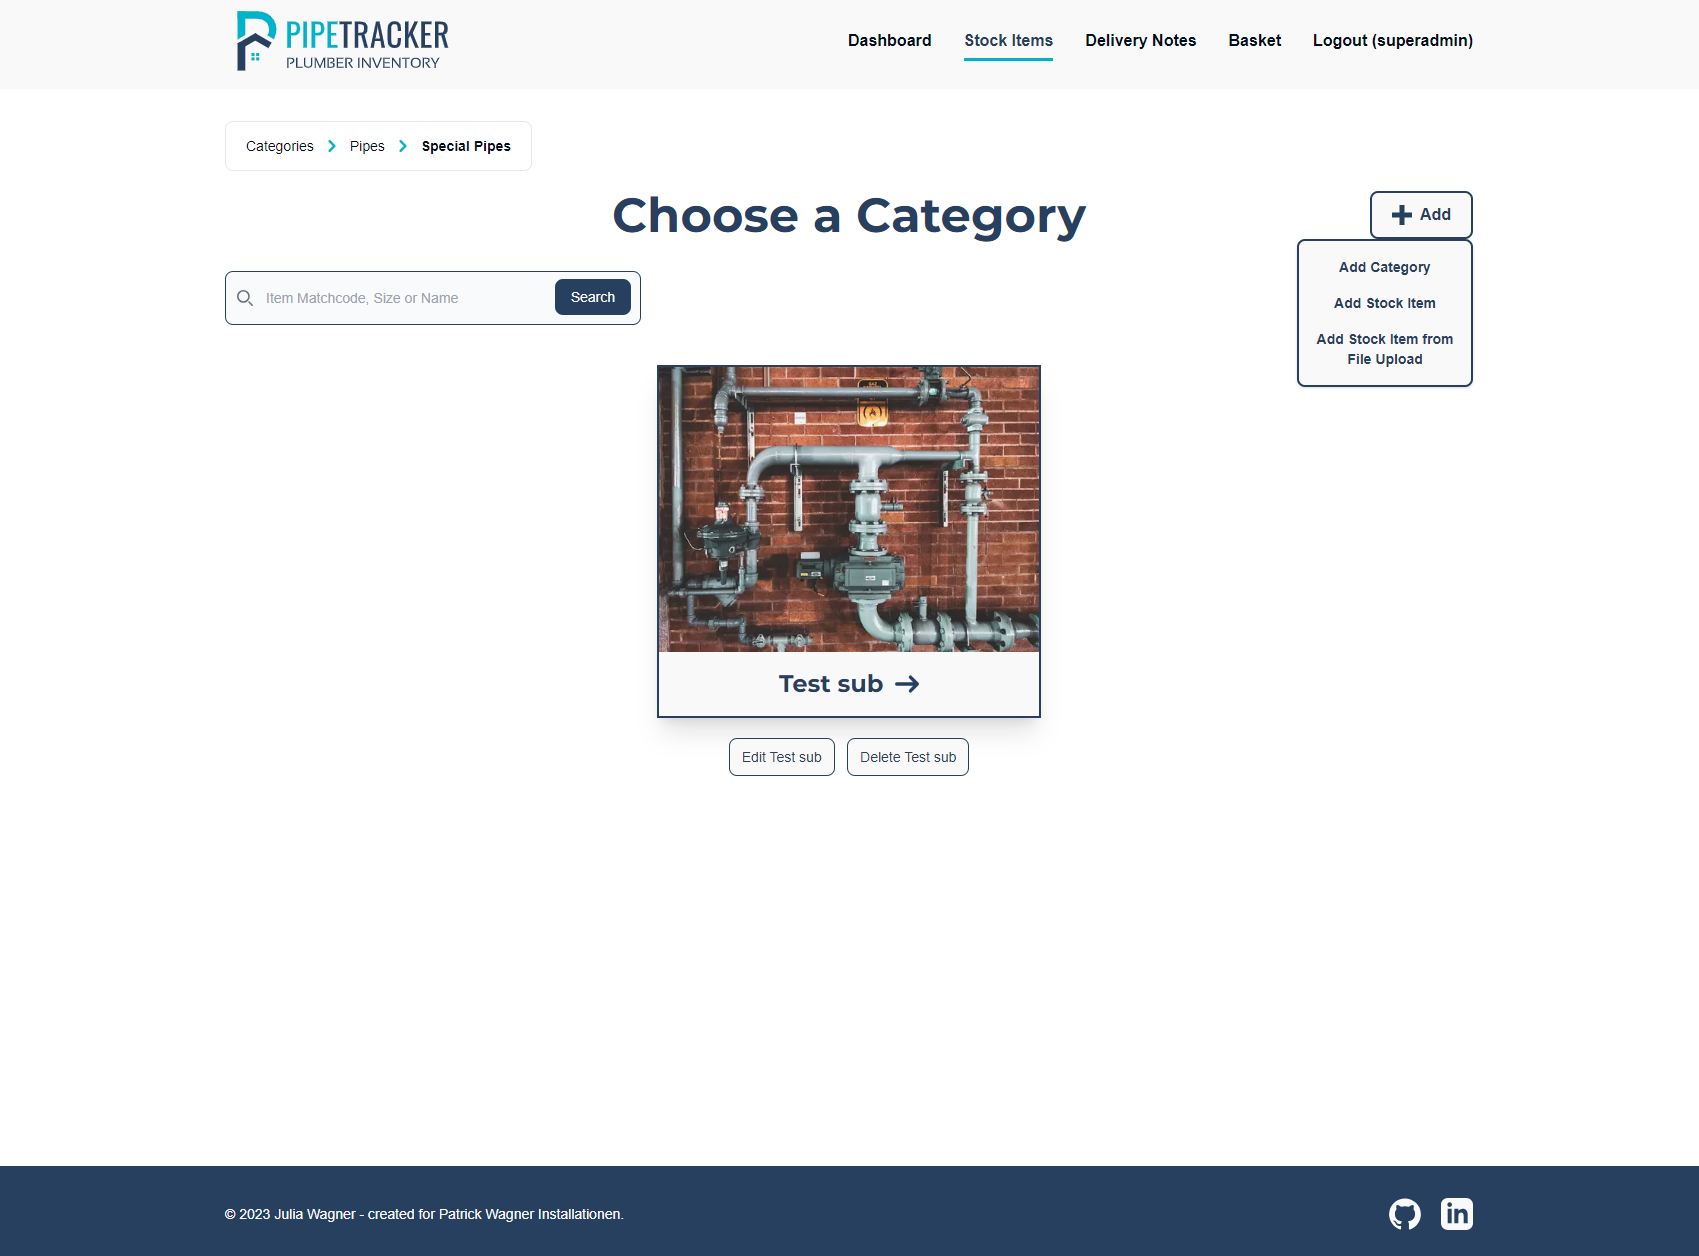
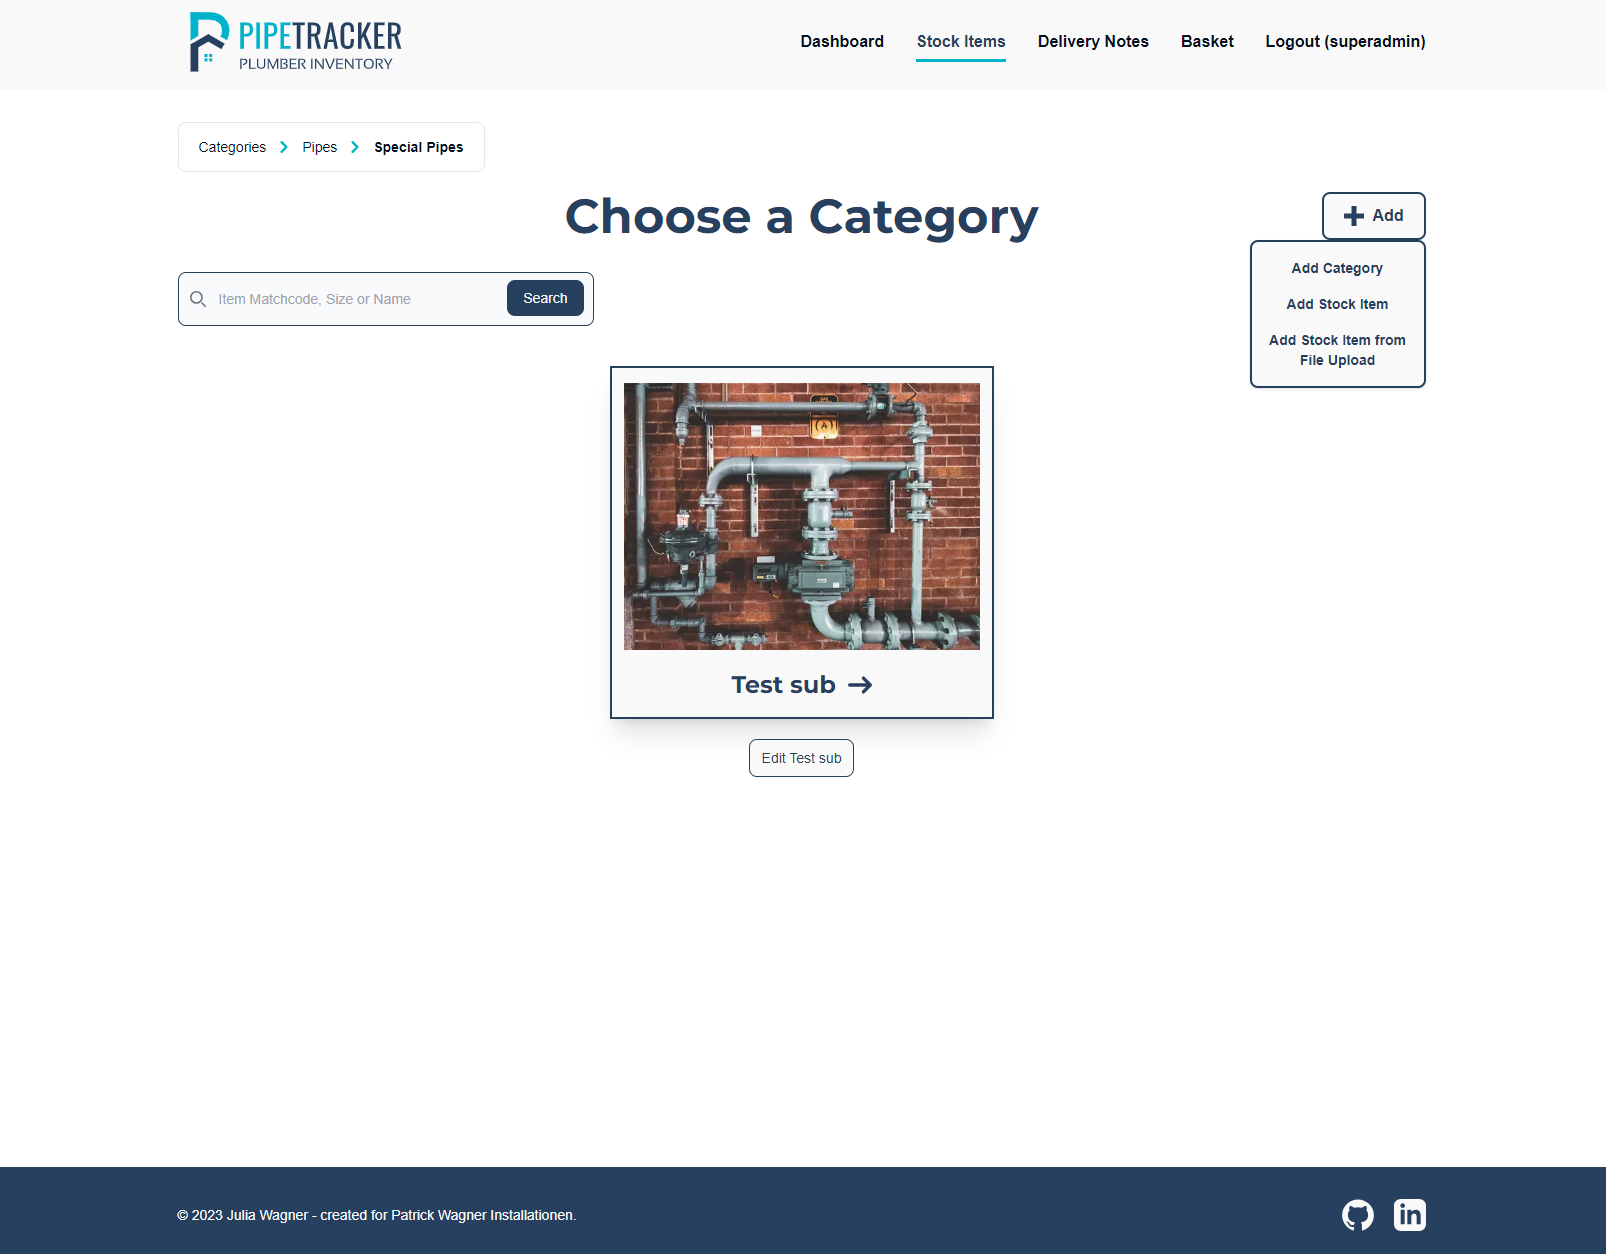
doc: add role-based category restriction to readme

diff --git a/README.md b/README.md
@@ -300,7 +300,7 @@ CRUD (Create, Read, Update and Delete) is available for many features of PipeTra
 
 | **Feature**       | **Create**                                         | **Read**                              | **Update**              | **Delete**                                                |
 |-------------------|----------------------------------------------------|---------------------------------------|-------------------------|-----------------------------------------------------------|
-| **Category**      | &check;                                            | &check;                               | &check;                 | &check;                                                   |
+| **Category**      | &check;                                            | &check;                               | &check;                 | &check; (only for superuser)                              |
 | **Stock Item**    | &check;                                            | &check;                               | &check;                 | &check;                                                   |
 | **Delivery Note** | &check;                                            | &check;                               | &check;                 | &check;                                                   |
 | **Customer**      | &check;                                            | &check; (when adding a delivery note) | only in the admin panel | only in the admin panel                                   |
@@ -377,6 +377,14 @@ Each category can contain either stock items or one or many subcategories, not b
 
 ![Subcategories](docs/screenshots/subcategory.png)\
 *Subcategories with CRUD*
+
+When editing a category, only superusers have the option to delete the category, the button is not rendered for other users. If a normal users enters the URL to delete a category, the permission is denied.
+
+![Edit a category](docs/screenshots/edit_category.png)\
+*Edit a category (superuser)*
+
+![Permission denied delete category](docs/screenshots/delete_category.png)\
+*Permission denied delete category (normal user)*
 
 A new category or stock item can be added at each of the **Stock Items** pages. When adding a stock item, only categories with no sub-categories can be chosen and when adding a new category, only categories with no stock items can be chosen as a parent category.
 
